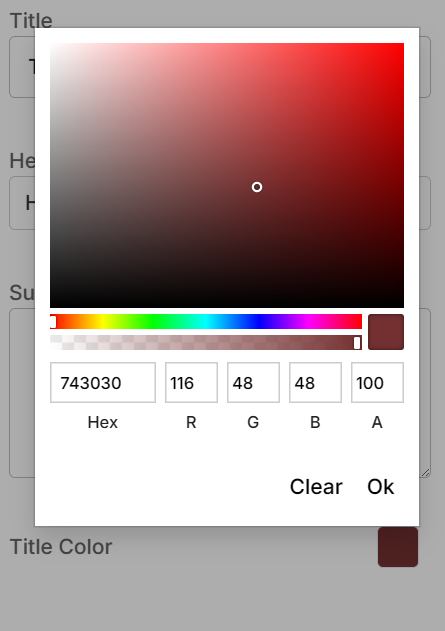
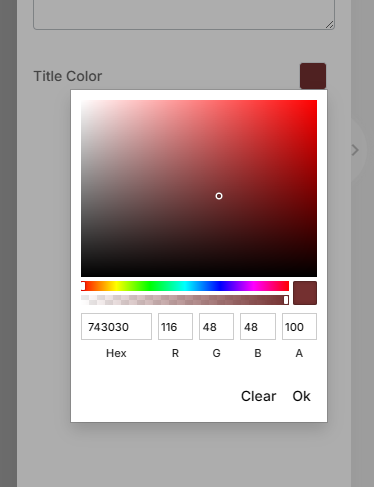
add closed state image for color picker doc

diff --git a/docs/controls/color.md b/docs/controls/color.md
@@ -26,7 +26,9 @@ The [color picker](https://ngx-color.vercel.app/) is used for this editor. The [
 ...
 ```
 
-![Color control example](images/color-picker-popup.png "Color control example")
+![Color control example](images/color-picker.png "Color control example")
+
+![Color control example in open state](images/color-picker-popup.png "Color control example in open state")
 
 ```json
 ...
@@ -42,4 +44,4 @@ The [color picker](https://ngx-color.vercel.app/) is used for this editor. The [
 ...
 ```
 
-![Inline color control example](images/color-picker-inline.png "Color control example in open state")
+![Inline color control example](images/color-picker-inline.png "Inline color control example")
